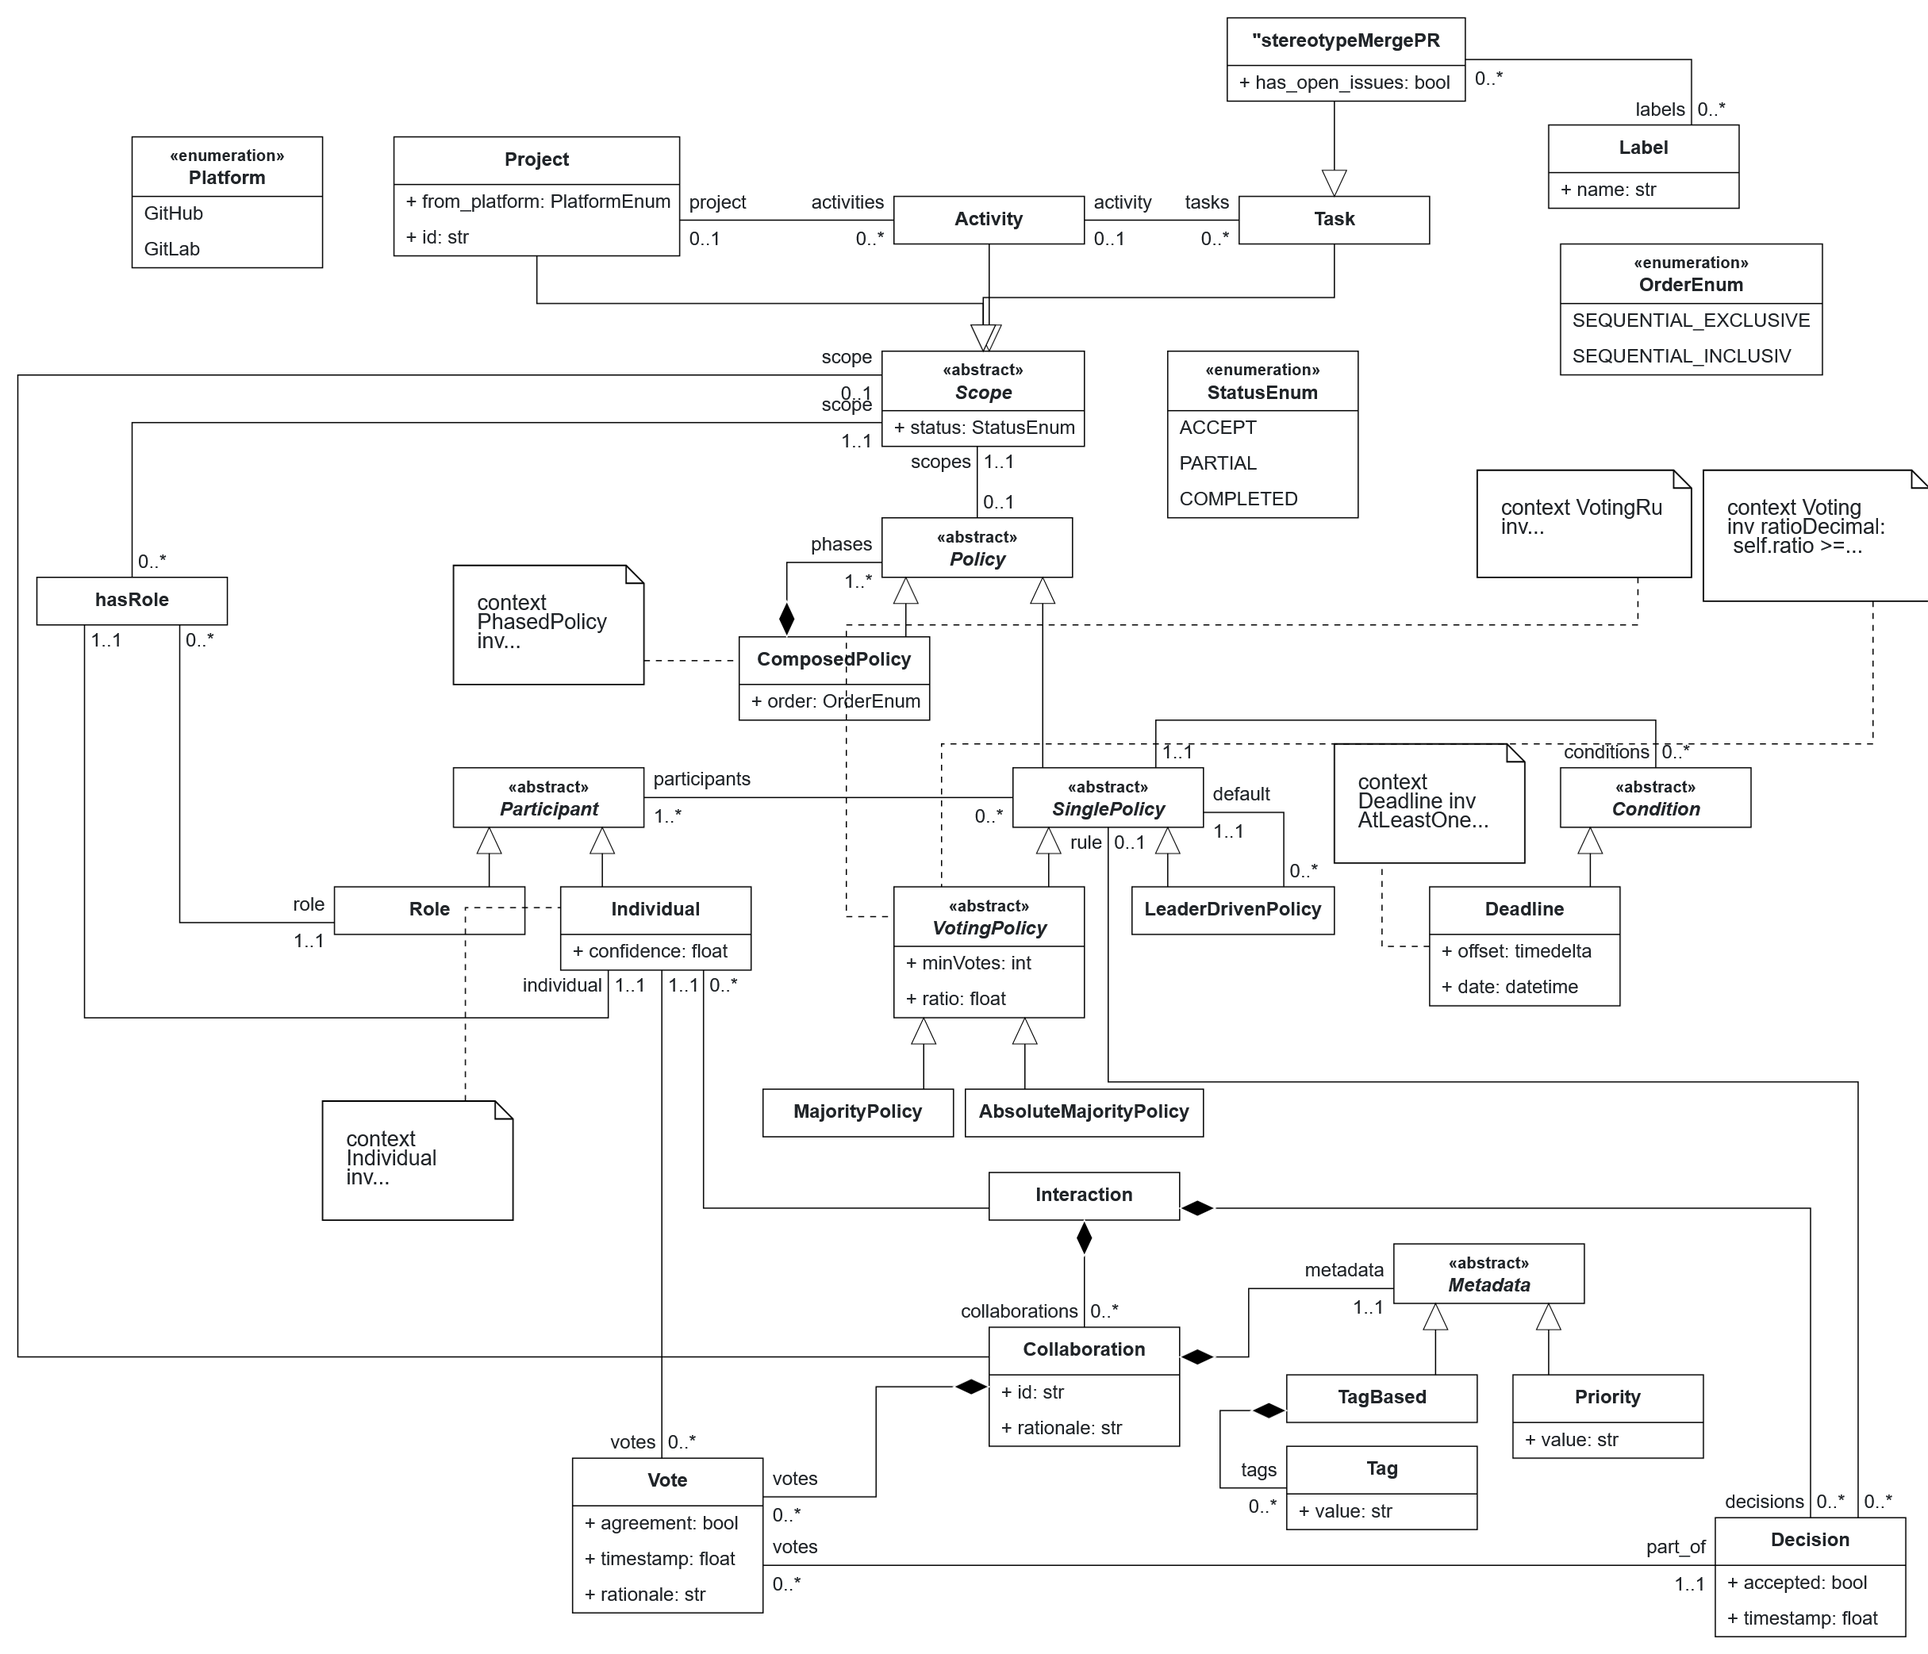
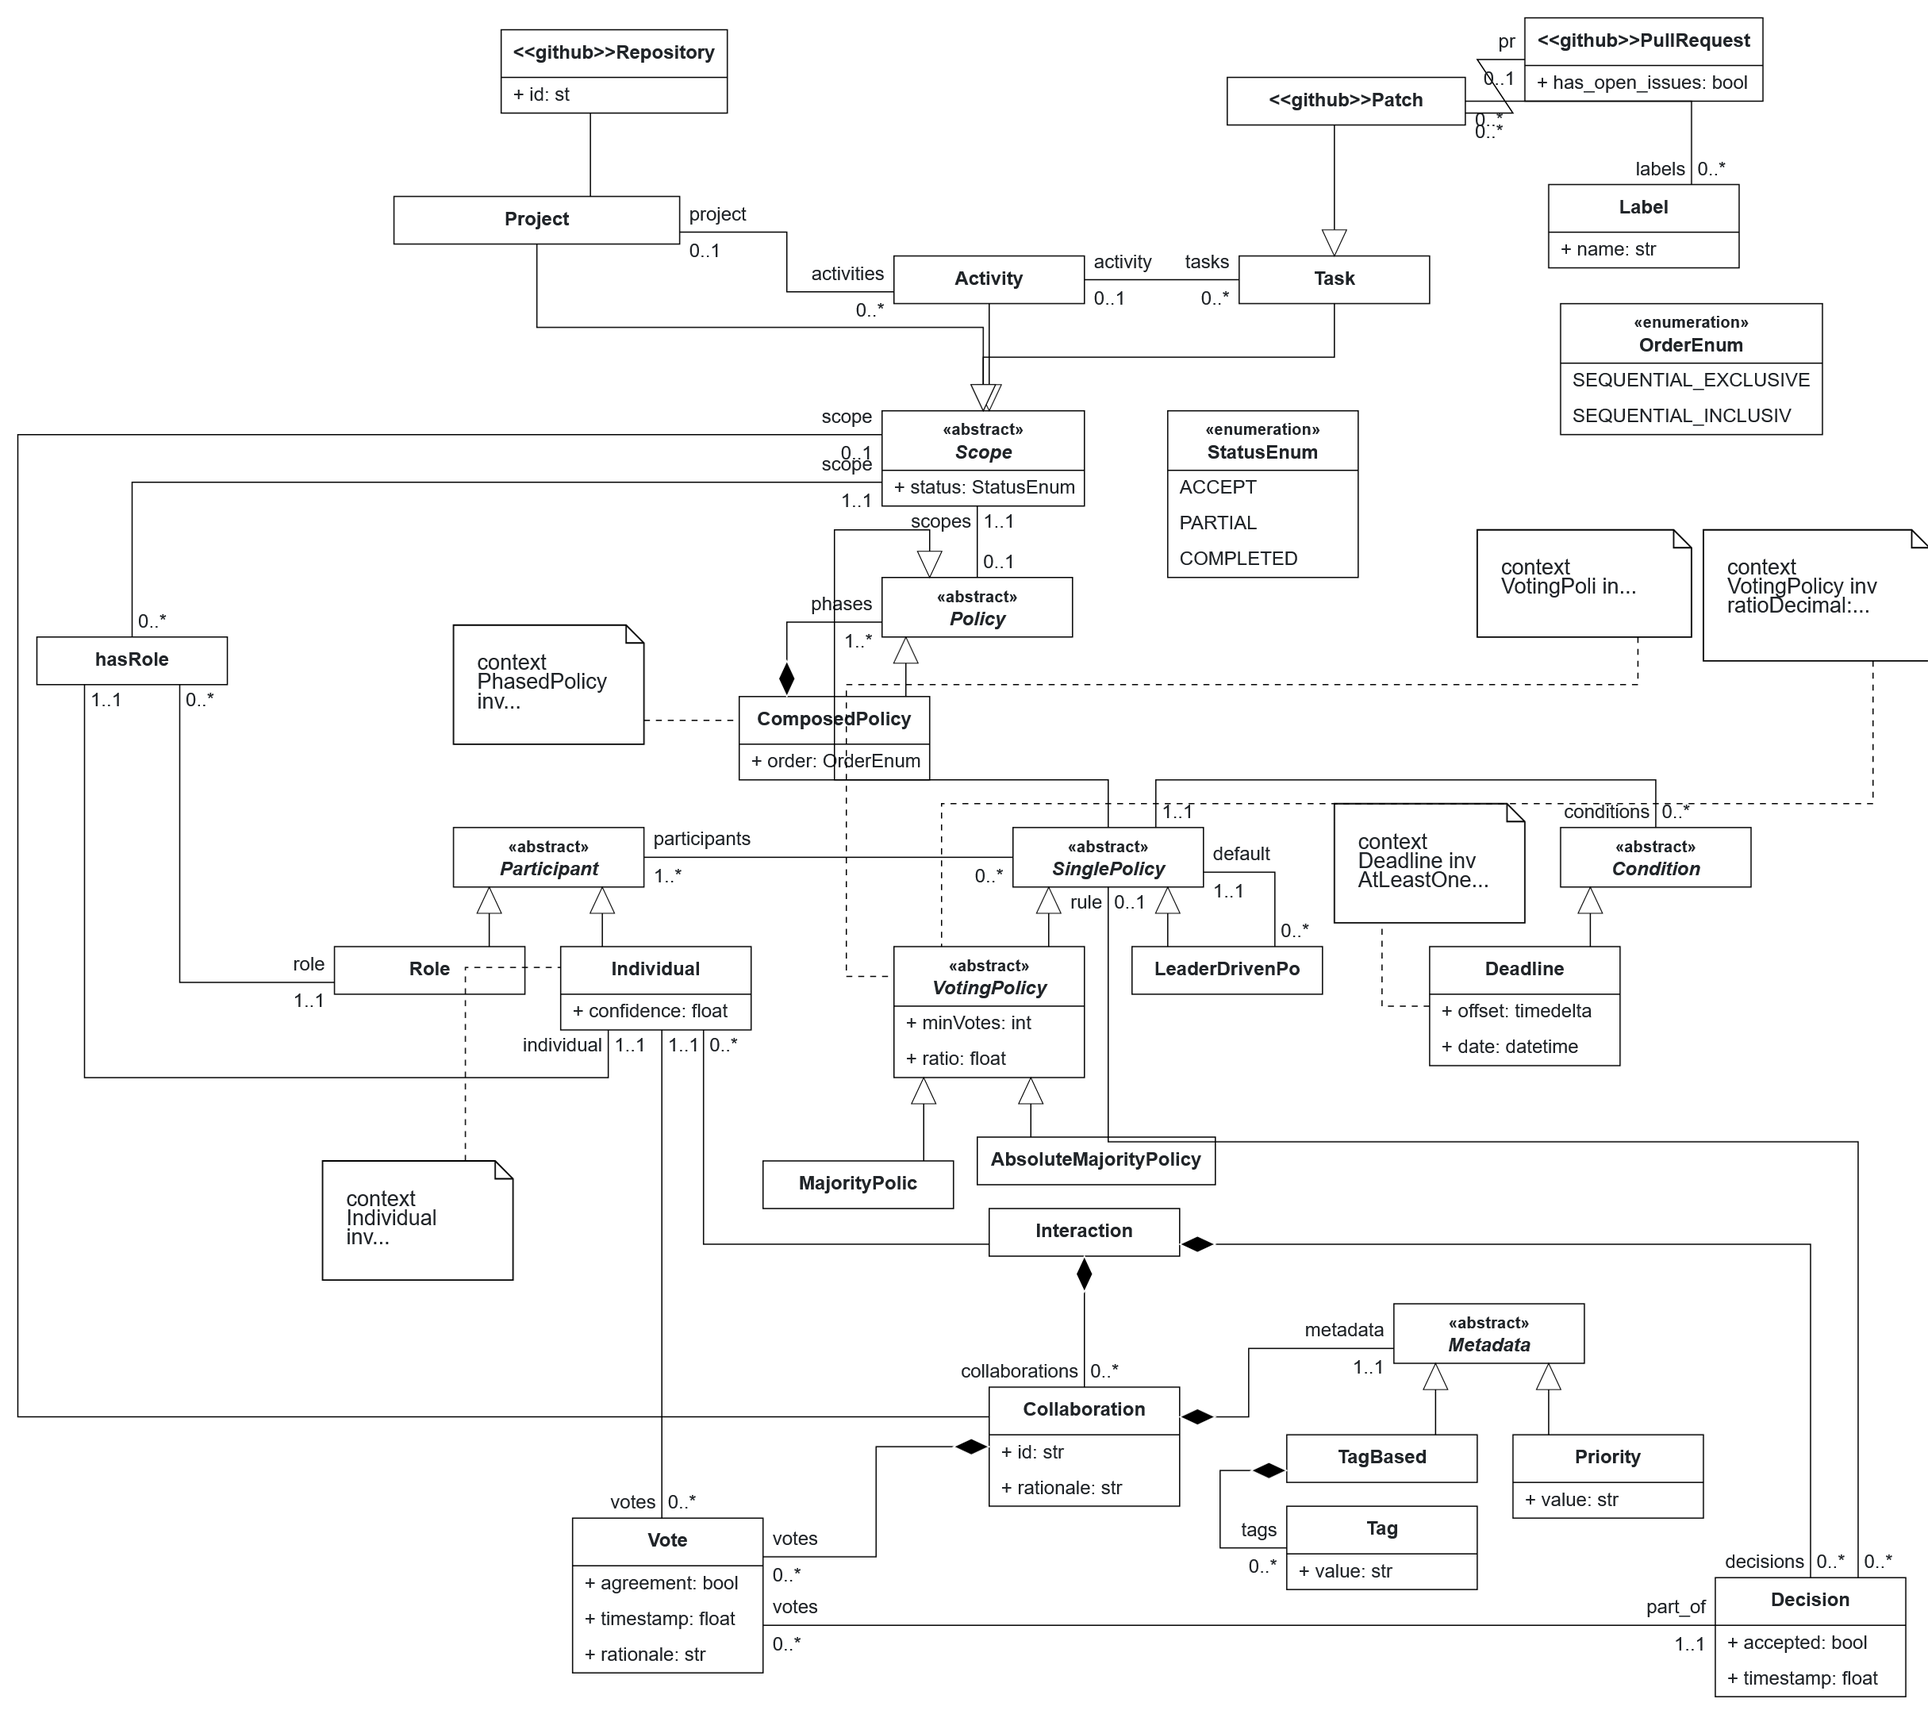
Update: GitHub extension classes updated + tests passed

diff --git a/grammar/PolicyCreationListener.py b/grammar/PolicyCreationListener.py
@@ -8,18 +8,16 @@ from utils.exceptions import (
     UndefinedAttributeException
 )
 from utils.gh_extension import (
-    ActionEnum, Label, PullRequest
+    ActionEnum, Label, PullRequest, Issue, Patch, Repository, GitHubElement
 )
 from utils.attribute_converters import (
-    str_to_status_enum, str_to_action_enum, deadline_to_timedelta,
-    str_to_platform_enum
+    str_to_status_enum, str_to_action_enum, deadline_to_timedelta
 )
 from metamodel.governance import (
     SinglePolicy, Project, Activity, Task, Role, Individual,
     Deadline, MajorityPolicy, AbsoluteMajorityPolicy, LeaderDrivenPolicy,
     PhasedPolicy, OrderEnum, hasRole, Scope
 )
-
 from .govdslParser import govdslParser
 from .govdslListener import govdslListener
 
@@ -354,35 +352,68 @@ class PolicyCreationListener(govdslListener):
         
         task = None
         
-        # That's the gh_extension part
+        # Handle GitHub extension elements
         if ctx.taskType():
             task_type_str = ctx.taskType().getText().lower()
-            if ctx.taskContent().status():
-                raise UndefinedAttributeException("action", "This task must have an action defined.")
-            if ctx.taskContent().action():
-                action = str_to_action_enum(ctx.taskContent().action().actionEnum().getText())
-                labels = None
-            else: # Action with labels
-                action = str_to_action_enum(ctx.taskContent().actionWithLabels().action().actionEnum().getText())
+            
+            # Create the GitHub element (PullRequest or Issue)
+            gh_element = None
+            labels = None
+            
+            # Process labels if present
+            if ctx.taskContent().actionWithLabels():
                 label_count = len(ctx.taskContent().actionWithLabels().labels().ID())
                 labels = set()
                 for i in range(label_count):
                     l_id = ctx.taskContent().actionWithLabels().labels().ID(i).getText()
                     labels.add(Label(name=l_id))
-            match task_type_str:
-                case "pull request":
-                    task = PullRequest(name=task_name, status=status, action=action, labels=labels) # TODO: Implement further task types
+            
+            # Create the appropriate GitHub element based on task type
+            if task_type_str == "pull request":
+                gh_element = PullRequest(name=task_name, labels=labels)
+            elif task_type_str == "issue":
+                gh_element = Issue(name=task_name, labels=labels)
+            
+            # Extract action for Patch
+            action = None
+            if ctx.taskContent().action():
+                action = str_to_action_enum(ctx.taskContent().action().actionEnum().getText())
+            elif ctx.taskContent().actionWithLabels():
+                action = str_to_action_enum(ctx.taskContent().actionWithLabels().action().actionEnum().getText())
+            else:
+                raise UndefinedAttributeException("action", "This task must have an action defined.")
+            
+            # Create the Patch object that references the GitHub element
+            if gh_element:
+                task = Patch(name=task_name, status=status, action=action, element=gh_element)
+            else:
+                # Fallback if no matching GitHub element type
+                task = Task(name=task_name, status=status)
         else:
+            # For regular tasks
             task = Task(name=task_name, status=status)
+            
         self._register_scope_with_current_policy(task)
     
     def enterProject(self, ctx:govdslParser.ProjectContext):
         project_name = ctx.ID().getText()
-        platform_str = ctx.platform().getText()
-        platform_enum = str_to_platform_enum(platform_str)
-        repo_id = ctx.repoID().getText()
-        project = Project(name=project_name, platform=platform_enum, project_id=repo_id, status=None) # TODO: relationship with activities, activities=set(self.__project_activities.values())
-        self._register_scope_with_current_policy(project)
+
+        if ctx.platform():
+            platform_str = ctx.platform().getText() # This will be used when we define further platforms
+            id_tokens = ctx.repoID().ID()
+            if len(id_tokens) > 1:  # If there are two IDs (owner/repo format)
+                owner = id_tokens[0].getText()
+                repo = id_tokens[1].getText()
+                repo_id = f"{owner}/{repo}"
+            else:  # If there's just one ID it means it is the user or organization
+                repo_id = id_tokens[0].getText()
+            status = None  # Status is usually set later
+            repository = Repository(name=project_name, status=status, repo_id=repo_id)
+        
+            self._register_scope_with_current_policy(repository)
+        else:
+            project = Project(name=project_name, status=None)
+            self._register_scope_with_current_policy(project)
         
     def enterRoles(self, ctx:govdslParser.RolesContext): 
 

diff --git a/tests/test_policy_creation.py b/tests/test_policy_creation.py
@@ -17,10 +17,10 @@ from utils.exceptions import (
 from metamodel.governance import (
     SinglePolicy, Activity, Task, 
     Role, Deadline, MajorityPolicy, 
-    StatusEnum, PlatformEnum, Project, Individual, PhasedPolicy, OrderEnum,
+    StatusEnum, Project, Individual, PhasedPolicy, OrderEnum,
     AbsoluteMajorityPolicy, LeaderDrivenPolicy 
 )
-from utils.gh_extension import ActionEnum, PullRequest
+from utils.gh_extension import ActionEnum, PullRequest, Repository, Patch
 
 class TestPolicyCreation(unittest.TestCase):
     def setUp(self):
@@ -62,10 +62,9 @@ class TestPolicyCreation(unittest.TestCase):
             # Test scope
             self.assertIsNotNone(policy.scope)
             scope = policy.scope
-            self.assertIsInstance(scope, Project)
+            self.assertIsInstance(scope, Repository)
             self.assertEqual(scope.name, "TestProjectGH")
-            self.assertEqual(scope.platform, PlatformEnum.GITHUB)
-            self.assertEqual(scope.project_id, "owner/repo")
+            self.assertEqual(scope.repo_id, "owner/repo")
             
             # Test participants
             self.assertEqual(len(policy.participants), 2)
@@ -146,10 +145,9 @@ class TestPolicyCreation(unittest.TestCase):
             # Test scope
             self.assertIsNotNone(policy.scope)
             scope = policy.scope
-            self.assertIsInstance(scope, Project)
+            self.assertIsInstance(scope, Repository)
             self.assertEqual(scope.name, "TestProject")
-            self.assertEqual(scope.platform, PlatformEnum.GITHUB)
-            self.assertEqual(scope.project_id, "owner/repo")
+            self.assertEqual(scope.repo_id, "owner/repo")
             
             # Test participants
             self.assertEqual(len(policy.participants), 1)
@@ -187,10 +185,9 @@ class TestPolicyCreation(unittest.TestCase):
             # Test scope
             self.assertIsNotNone(policy.scope)
             scope = policy.scope
-            self.assertIsInstance(scope, Project)
+            self.assertIsInstance(scope, Repository)
             self.assertEqual(scope.name, "TestProject")
-            self.assertEqual(scope.platform, PlatformEnum.GITHUB)
-            self.assertEqual(scope.project_id, "owner/repo")
+            self.assertEqual(scope.repo_id, "owner/repo")
             
             # Test leader participants
             self.assertEqual(len(policy.participants), 1)
@@ -227,10 +224,9 @@ class TestPolicyCreation(unittest.TestCase):
             # Test default policy scope
             self.assertIsNotNone(default_policy.scope)
             scope = default_policy.scope
-            self.assertIsInstance(scope, Project)
+            self.assertIsInstance(scope, Repository)
             self.assertEqual(scope.name, "TestProject")
-            self.assertEqual(scope.platform, PlatformEnum.GITHUB)
-            self.assertEqual(scope.project_id, "owner/repo")
+            self.assertEqual(scope.repo_id, "owner/repo")
             
             # Test default policy parameters
             self.assertEqual(default_policy.minVotes, 2)
@@ -264,11 +260,15 @@ class TestPolicyCreation(unittest.TestCase):
             # Test phase 1 scope
             self.assertIsNotNone(phase_1.scope)
             task_scope = phase_1.scope
-            self.assertIsInstance(task_scope, PullRequest)
+            self.assertIsInstance(task_scope, Patch)
             self.assertEqual(task_scope.name, "TestTask")
             self.assertEqual(task_scope.action, ActionEnum.MERGE)
+            # Check the GitHub element
+            self.assertIsNotNone(task_scope.element)
+            self.assertIsInstance(task_scope.element, PullRequest)
+            self.assertEqual(task_scope.element.name, "TestTask")
             # Check for labels
-            self.assertIsNone(task_scope.labels)
+            self.assertIsNone(task_scope.element.labels)
             
             # Test phase 1 participants
             self.assertEqual(len(phase_1.participants), 1)
@@ -295,11 +295,15 @@ class TestPolicyCreation(unittest.TestCase):
             # Test phase 2 scope
             self.assertIsNotNone(phase_2.scope)
             task_scope = phase_2.scope
-            self.assertIsInstance(task_scope, PullRequest)
+            self.assertIsInstance(task_scope, Patch)
             self.assertEqual(task_scope.name, "TestTask")
             self.assertEqual(task_scope.action, ActionEnum.MERGE)
+            # Check the GitHub element
+            self.assertIsNotNone(task_scope.element)
+            self.assertIsInstance(task_scope.element, PullRequest)
+            self.assertEqual(task_scope.element.name, "TestTask")
             # Check for labels
-            self.assertIsNone(task_scope.labels)
+            self.assertIsNone(task_scope.element.labels)
             
             # Test phase 2 participants
             self.assertEqual(len(phase_2.participants), 1)

diff --git a/utils/gh_extension.py b/utils/gh_extension.py
@@ -1,6 +1,6 @@
 from enum import Enum
 from besser.BUML.metamodel.structural import NamedElement
-from metamodel.governance import Task, StatusEnum
+from metamodel.governance import Task, StatusEnum, Project
 
 class ActionEnum(Enum):
     MERGE = 1
@@ -11,20 +11,12 @@ class Label(NamedElement):
     def __init__(self, name: str):
         super().__init__(name)
 
-class PullRequest(Task):
-    def __init__(self, name: str, status: StatusEnum, action: ActionEnum, labels: set[Label]):
-        super().__init__(name, status)
-        self.action = action
+class GitHubElement(NamedElement):
+    """Base class for GitHub elements like PullRequest and Issue"""
+    def __init__(self, name: str, labels: set[Label] = None):
+        super().__init__(name)
         self.labels = labels
-
-    @property
-    def action(self):
-        return self.__action
     
-    @action.setter
-    def action(self, action: ActionEnum):
-        self.__action = action  # Use the backing field instead of self.action
-
     @property
     def labels(self):
         return self.__labels
@@ -32,3 +24,50 @@ class PullRequest(Task):
     @labels.setter
     def labels(self, labels: set[Label]):
         self.__labels = labels
+
+class PullRequest(GitHubElement):
+    """Represents a Pull Request in GitHub"""
+    def __init__(self, name: str, labels: set[Label] = None):
+        super().__init__(name, labels)
+
+class Issue(GitHubElement):
+    """Represents an Issue in GitHub"""
+    def __init__(self, name: str, labels: set[Label] = None):
+        super().__init__(name, labels)
+
+class Repository(Project):
+    """Represents a GitHub Repository"""
+    def __init__(self, name: str, status: StatusEnum, repo_id: str):
+        super().__init__(name, status)
+        self.repo_id = repo_id
+    
+    @property
+    def repo_id(self) -> str:
+        return self.__repo_id
+    
+    @repo_id.setter
+    def repo_id(self, repo_id: str):
+        self.__repo_id = repo_id
+
+class Patch(Task):
+    """Represents an action (patch) that can be performed on a GitHub element"""
+    def __init__(self, name: str, status: StatusEnum, action: ActionEnum, element: GitHubElement = None):
+        super().__init__(name, status)
+        self.action = action
+        self.element = element
+    
+    @property
+    def action(self):
+        return self.__action
+    
+    @action.setter
+    def action(self, action: ActionEnum):
+        self.__action = action
+    
+    @property
+    def element(self):
+        return self.__element
+    
+    @element.setter
+    def element(self, element: GitHubElement):
+        self.__element = element

diff --git a/metamodel/governance.py b/metamodel/governance.py
@@ -8,9 +8,6 @@ from utils.exceptions import (
 )
 
 # Enums
-class PlatformEnum(Enum):
-    GITHUB = 1
-
 class StatusEnum(Enum):
     COMPLETED = 1
     ACCEPTED = 2
@@ -37,29 +34,9 @@ class Scope(NamedElement):
         self.__status = status
 
 class Project(Scope):
-    def __init__(self, name: str, status: StatusEnum, platform: PlatformEnum, project_id: str):
+    def __init__(self, name: str, status: StatusEnum):
         super().__init__(name, status)
-        self.platform = platform
-        self.project_id = project_id
     
-    @property
-    def platform(self) -> PlatformEnum:
-        return self.__platform
-    
-    @platform.setter
-    def platform(self, platform: PlatformEnum):
-        if not isinstance(platform, PlatformEnum):
-            raise UndefinedAttributeException("platform", platform)
-        self.__platform = platform
-    
-    @property
-    def project_id(self) -> str:
-        return self.__project_id
-    
-    @project_id.setter
-    def project_id(self, project_id: str):
-        self.__project_id = project_id
-
 class Activity(Scope):
     def __init__(self, name: str, status: StatusEnum):
         super().__init__(name, status)

diff --git a/utils/attribute_converters.py b/utils/attribute_converters.py
@@ -1,5 +1,5 @@
 from datetime import timedelta
-from metamodel.governance import StatusEnum, PlatformEnum
+from metamodel.governance import StatusEnum
 from utils.gh_extension import ActionEnum
 
 def str_to_status_enum(status_str: str) -> StatusEnum:
@@ -19,13 +19,6 @@ def str_to_action_enum(action_str: str) -> ActionEnum:
         'all': ActionEnum.ALL
     }
     return action_map.get(action_str.lower())
-
-def str_to_platform_enum(platform_str: str) -> PlatformEnum:
-    """Convert a string to a PlatformEnum value."""
-    platform_map = {
-        'github': PlatformEnum.GITHUB
-    }
-    return platform_map.get(platform_str.lower())
 
 def deadline_to_timedelta(value: int, unit: str) -> timedelta:
     """Convert a deadline value and unit to a timedelta."""
